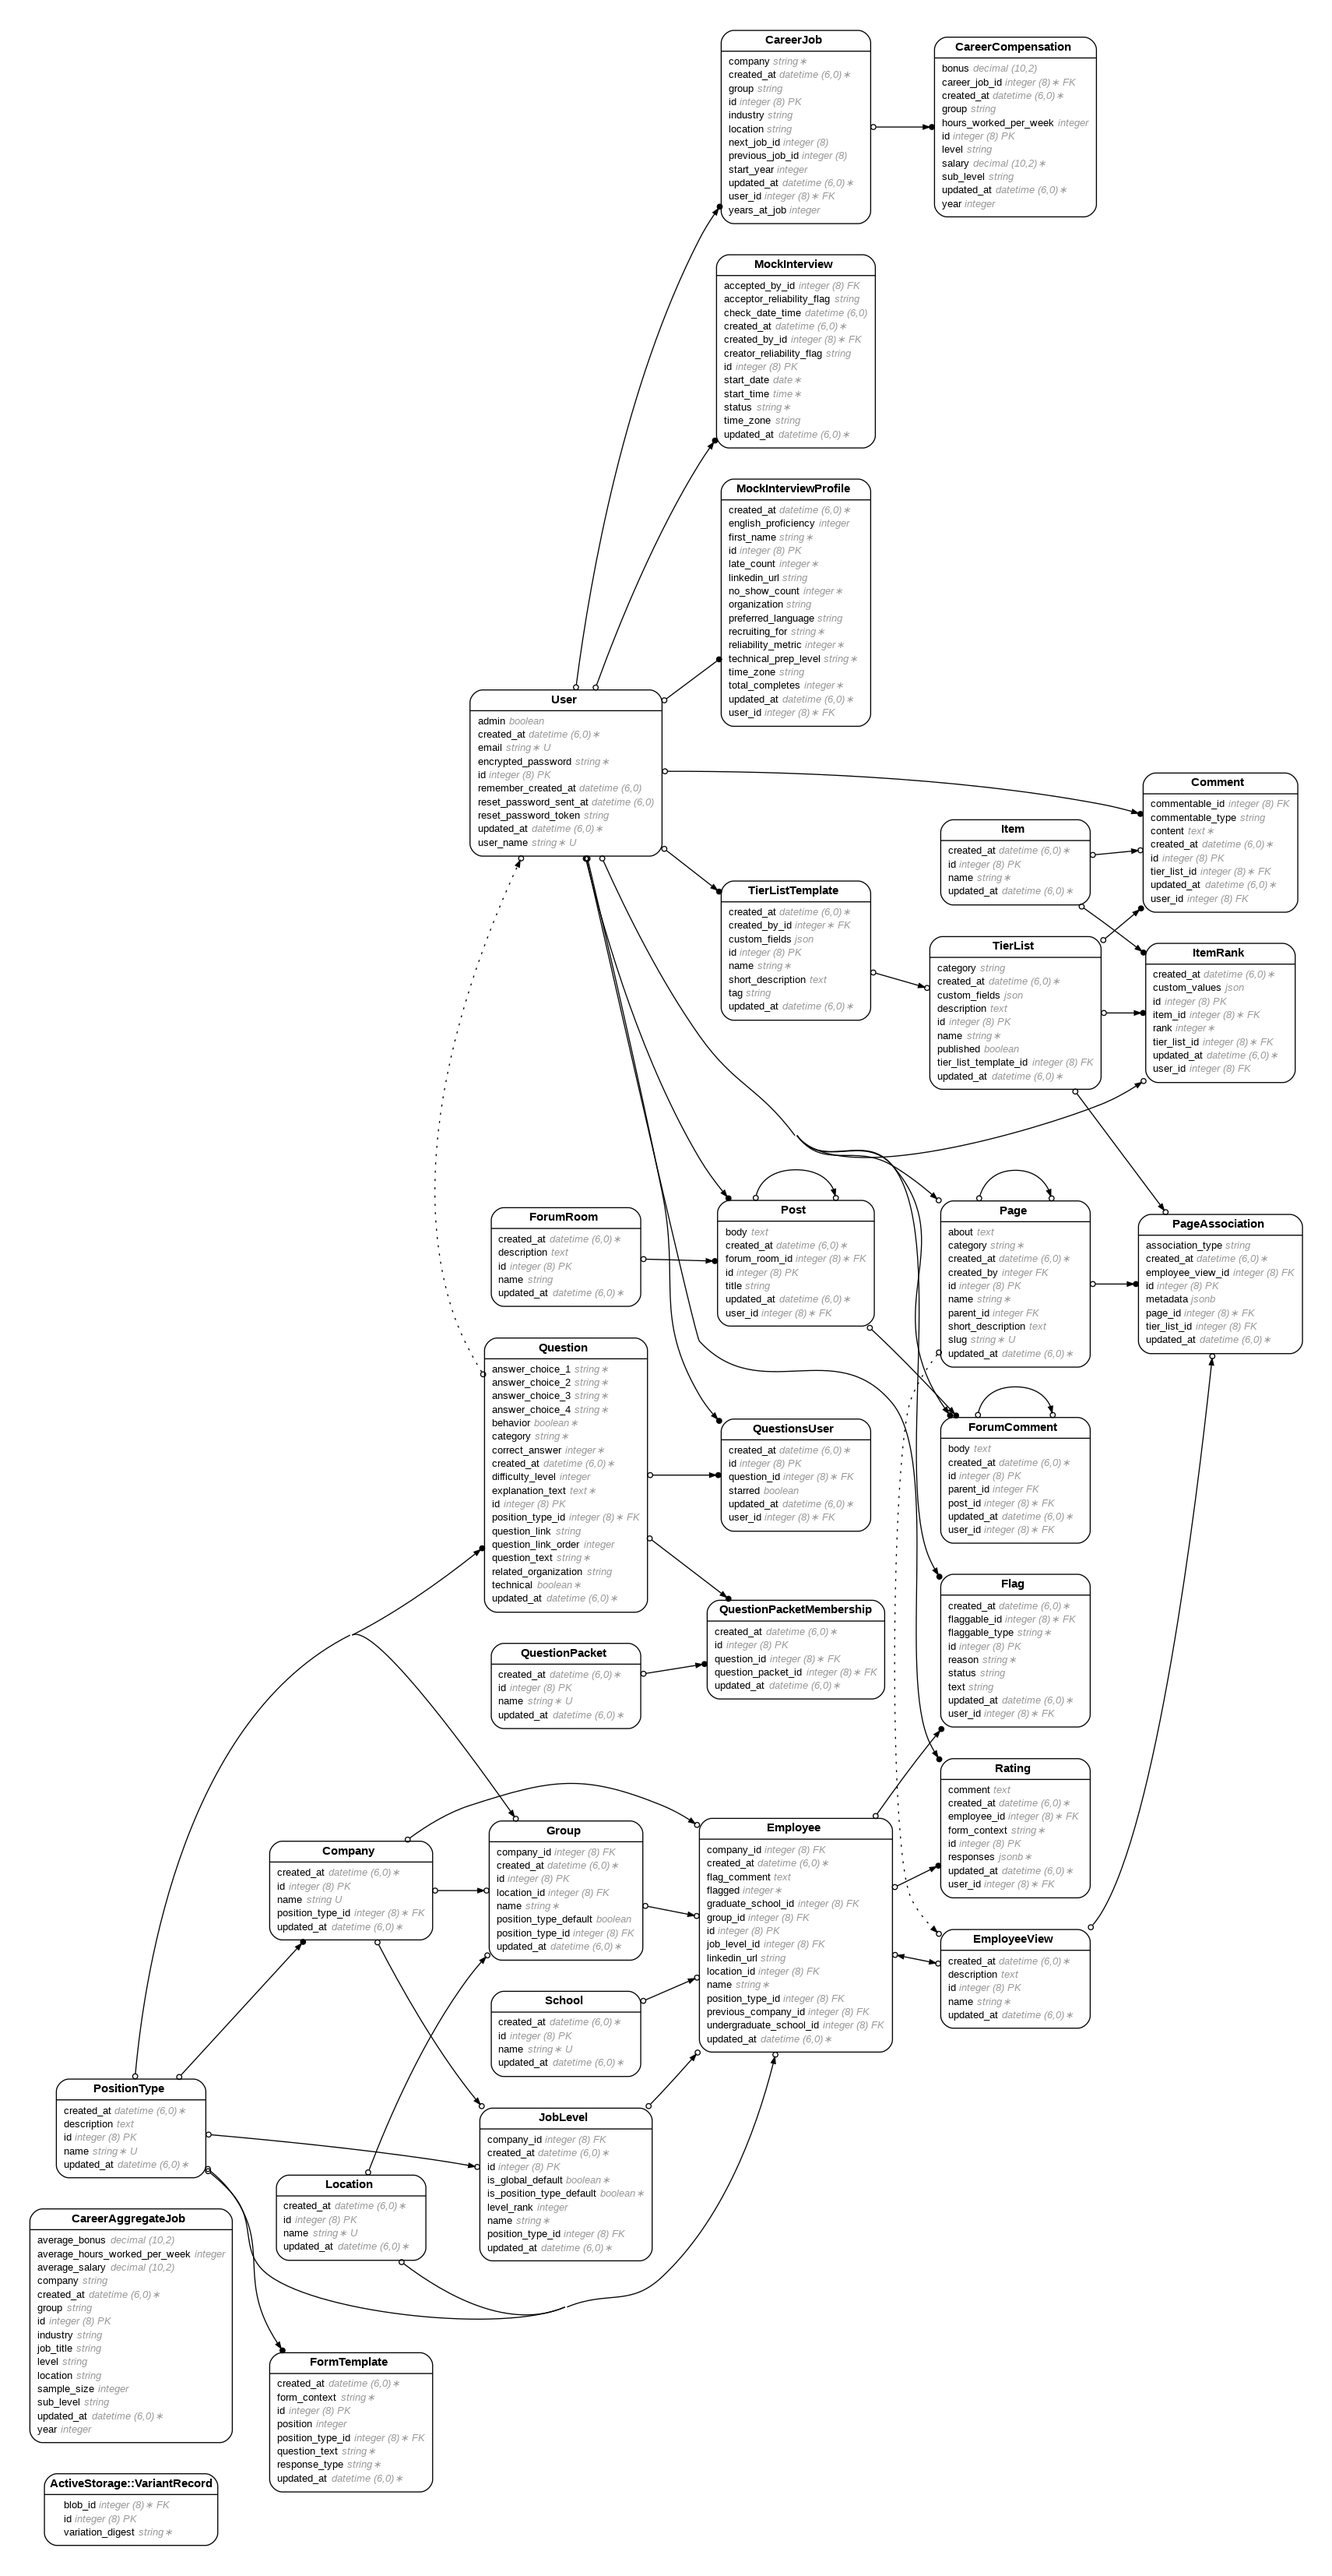
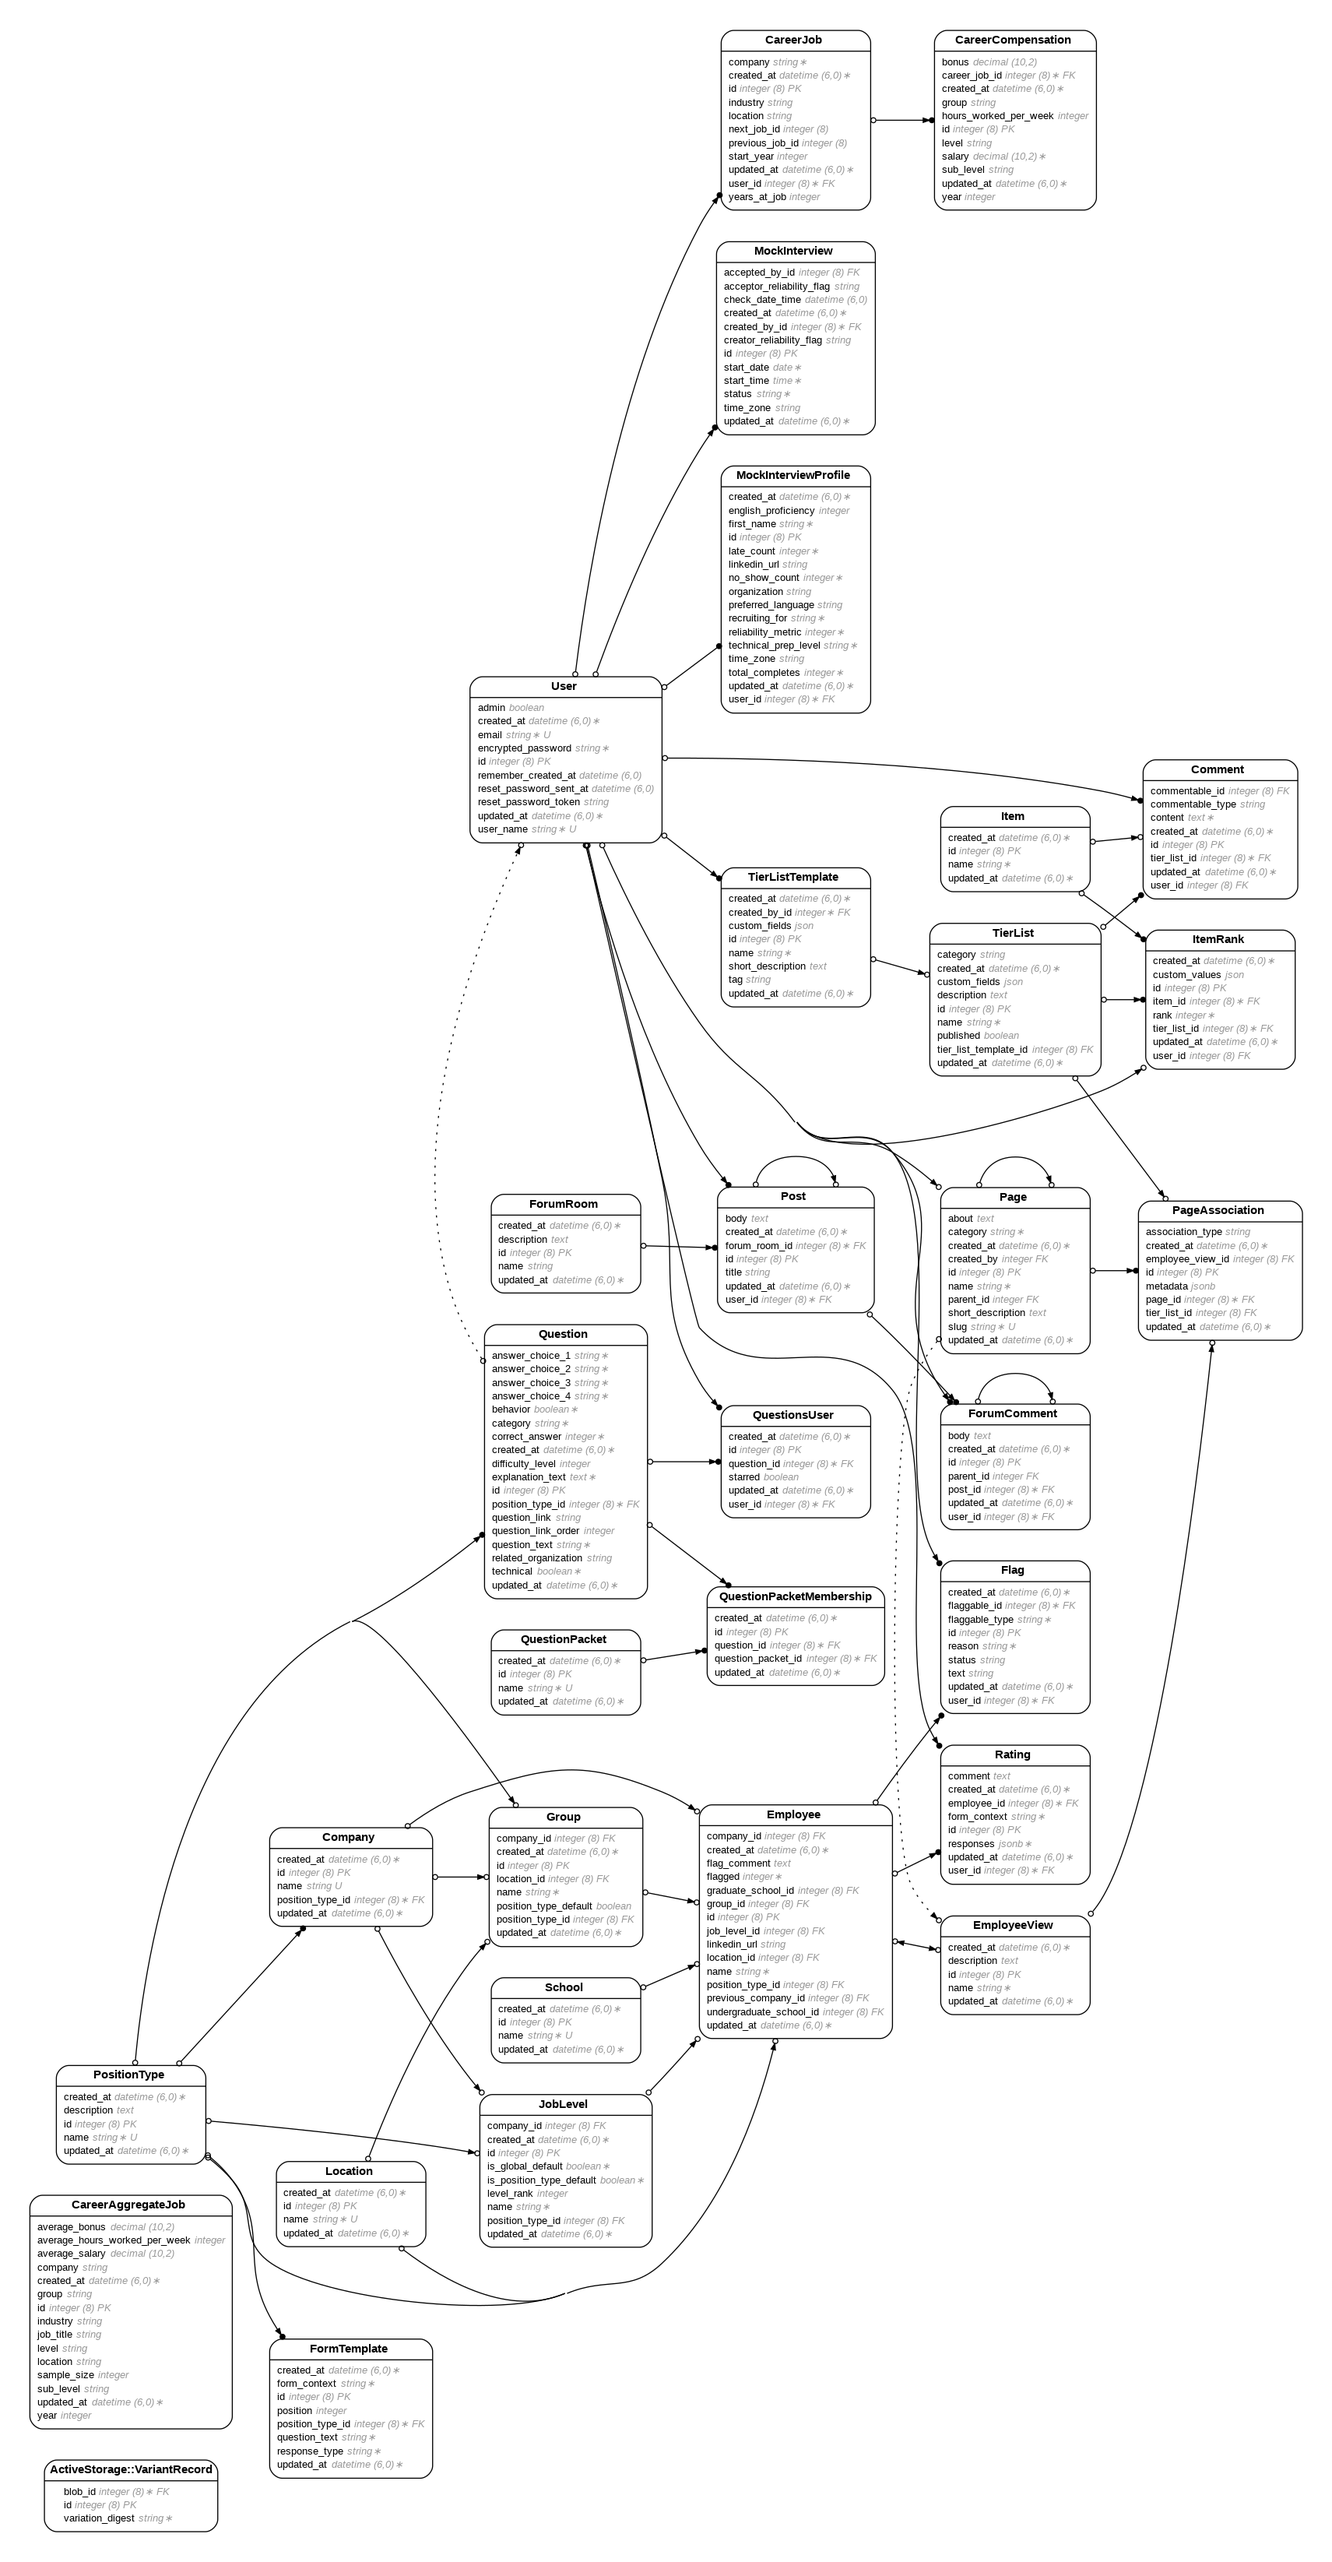
Updated the career compensation logic

diff --git a/db/schema.rb b/db/schema.rb
@@ -10,7 +10,7 @@
 #
 # It's strongly recommended that you check this file into your version control system.
 
-ActiveRecord::Schema[7.1].define(version: 2025_01_28_175352) do
+ActiveRecord::Schema[7.1].define(version: 2025_01_28_183345) do
   # These are extensions that must be enabled in order to support this database
   enable_extension "plpgsql"
 
@@ -77,7 +77,6 @@ ActiveRecord::Schema[7.1].define(version: 2025_01_28_175352) do
     t.bigint "user_id", null: false
     t.string "company"
     t.string "industry"
-    t.string "group"
     t.integer "start_year"
     t.integer "years_at_job"
     t.bigint "previous_job_id"

diff --git a/app/models/career_job.rb b/app/models/career_job.rb
@@ -4,7 +4,6 @@
 #
 #  id              :bigint           not null, primary key
 #  company         :string
-#  group           :string
 #  industry        :string
 #  location        :string
 #  start_year      :integer

diff --git a/db/migrate/20250128183345_remove_group_from_career_jobs.rb b/db/migrate/20250128183345_remove_group_from_career_jobs.rb
@@ -1,0 +1,5 @@
+class RemoveGroupFromCareerJobs < ActiveRecord::Migration[7.1]
+  def change
+    remove_column :career_jobs, :group, :string
+  end
+end
